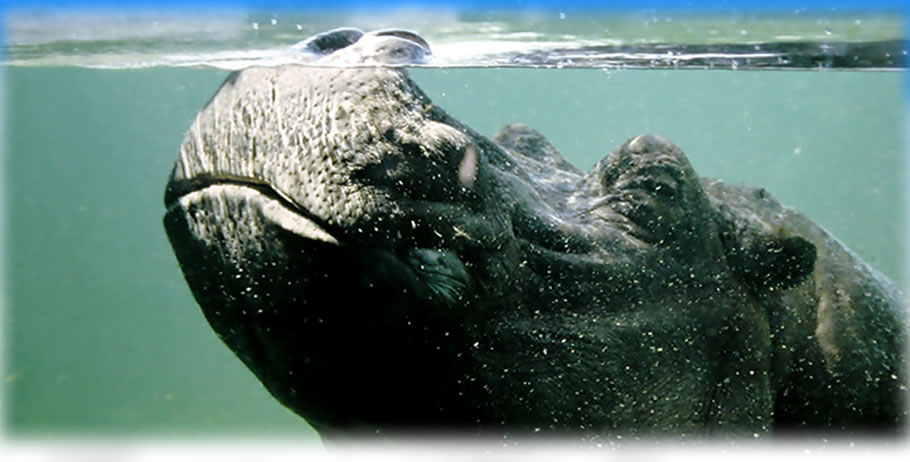
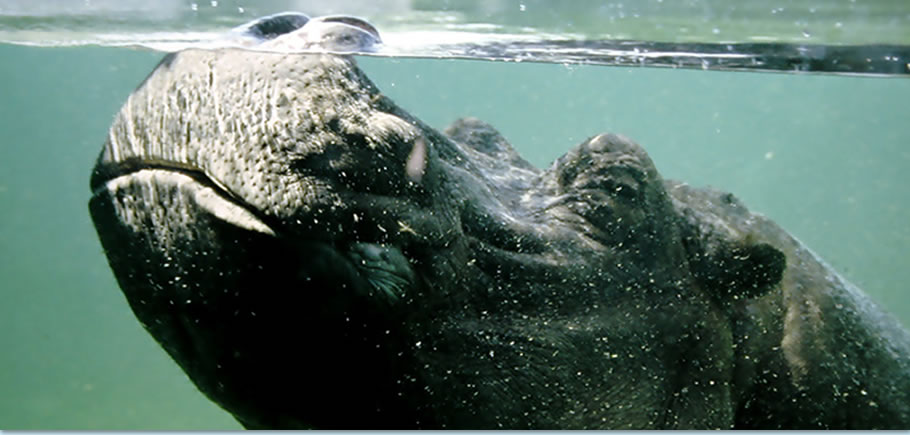
・背景の変更によりトップ画像とロゴ画像を変更。 ・各記事の画像サイズを統一。

diff --git a/index.html b/index.html
@@ -20,27 +20,27 @@
       </ul>
     </div>
     <div id="main_header">
-      <div id="title_logo"><a href="index.html"><img src="image/title_logo.jpg" width="424" height="83" alt="大阪市立天王寺動物園"></a></div>
-      <div id="pr"><a href="http://blog.zaq.ne.jp/zoo_tennoji5/category/10/" target="_new"><img src="image/koguma_pr.jpg" width="210" height="61" alt="ホッキョクグマの赤ちゃん公開中！"></a></div>
+      <div id="title_logo"><a href="index.html"><img src="image/title_logo.png" width="418" height="79" alt="大阪市立天王寺動物園"></a></div>
+      <div id="pr"><a href="http://blog.zaq.ne.jp/zoo_tennoji5/category/10/" target="_new"><img src="image/koguma_pr.jpg" width="210" height="62" alt="ホッキョクグマの赤ちゃん公開中！"></a></div>
     </div>
     <div id="navi">
       <ul>
-        <li><img src="image/navi_info.jpg" alt="総合案内" width="111" height="30"></li>
-        <li><img src="image/navi_access.jpg" alt="アクセス" width="117" height="30"></li>
-        <li><img src="image/navi_event.jpg" width="112" height="30" alt="イベント"></li>
-        <li><img src="image/navi_map.jpg" alt="園内マップ" width="128" height="30"></li>
-        <li><img src="image/navi_ref.jpg" alt="いきもの" width="109" height="30"></li>
-        <li><img src="image/navi_read.jpg" alt="よみもの" width="105" height="30"></li>
+        <li><img src="image/navi_info.png" alt="総合案内" width="100" height="20"></li>
+        <li><img src="image/navi_access.png" alt="アクセス" width="100" height="20"></li>
+        <li><img src="image/navi_event.png" width="98" height="20" alt="イベント"></li>
+        <li><img src="image/navi_map.png" alt="園内マップ" width="121" height="20"></li>
+        <li><img src="image/navi_ref.png" alt="いきもの" width="102" height="20"></li>
+        <li><img src="image/navi_read.png" alt="よみもの" width="101" height="20"></li>
       </ul>
     </div>
 </div>
 <div class="clear_left" id="main_image">
 	<ul>
-	 <li><img src="image/main_img1.jpg" width="910" height="462" alt="アムールトラ">
+	 <li><img src="image/main_img1.jpg" width="910" height="435" alt="アムールトラ">
    </li>
-	 <li><img src="image/main_img2.jpg" width="910" height="462" alt="ホッキョクグマ"></li>
-	 <li><img src="image/main_img3.jpg" width="910" height="462" alt="チュウゴクオオカミ"></li>
-	 <li><img src="image/main_img4.jpg" alt="カバ" width="940" height="462" class="clear_left"></li>
+	 <li><img src="image/main_img2.jpg" width="910" height="435" alt="ホッキョクグマ"></li>
+	 <li><img src="image/main_img3.jpg" width="910" height="435" alt="チュウゴクオオカミ"></li>
+	 <li><img src="image/main_img4.jpg" alt="カバ" width="940" height="435" class="clear_left"></li>
   </ul>
  </div>
 <div id="contents">
@@ -49,7 +49,7 @@
   <h2><span class="display_none">ニュース・お知らせ</span></h2>
 		<a href="http://www.jazga.or.jp/tennoji/info/info150331.html" target="_new">
           <div class="news_article" id="ceremony">
-            <p><img src="image/polar_bear.jpg" width="290" height="211" class="article_pic"></p>
+            <p><img src="image/polar_bear.jpg" width="290" height="210" class="article_pic"></p>
             <p class="news_update">2015.3.30更新</p>
             <h3 class="article_contents article_header">ホッキョクグマ「イッちゃん」の寄贈に関する感謝状の贈呈式が行われました。</h3>
             <p class="news_article_contents article_contents">株式会社蓬莱代表取締役社長、常務及び大阪市長出席のもと、大阪市役所市長応接室にて感謝状贈呈式を行いました。</p>
@@ -57,7 +57,7 @@
           </a>
         <a href="http://www.jazga.or.jp/tennoji/access/index.html">
           <div class="news_article" id="change_root">
-            <p><img src="image/logo.gif" alt="天王寺動物園ロゴ" width="132" height="132" class="article_pic"></p>
+            <p><img src="image/logo.gif" alt="天王寺動物園ロゴ" width="290" height="210" class="article_pic"></p>
             <p class="news_update">2015.1.30更新</p>
             <h3 class="article_contents article_header">2月24日より<br>
             アクセスルートが変わりました。</h3>
@@ -67,7 +67,7 @@
 		</a>
         <a href="http://www.city.osaka.lg.jp/kensetsu/page/0000296961.html">
           <div id="under_construction">
-            <p><img src="image/logo.gif" alt="天王寺動物園ロゴ" width="132" height="132" class="article_pic"></p>
+            <p><img src="image/logo.gif" alt="天王寺動物園ロゴ" width="290" height="210" class="article_pic"></p>
             <p class="news_update">2015.1.30更新</p>
             <h3 class="article_contents article_header">新世界ゲート横のトイレが改修工事のため<br>
             使用できなくなります</h3>
@@ -83,7 +83,7 @@
   <h2><span class="display_none">イベント</span></h2>
 	<a href="http://www.city.osaka.lg.jp/mobile/main/page/0000294561.html">
       <div class="event_contents" id="display">
-        <p><img src="image/animal_display.jpg" alt="絶滅の危機にある動物たち・ 外来生物の脅威" width="291" height="218" class="article_pic"></p>
+        <p><img src="image/animal_display.jpg" alt="絶滅の危機にある動物たち・ 外来生物の脅威" width="290" height="210" class="article_pic"></p>
         <p class="event_update">2015.3.21～2015.4.5まで</p>
         <h3 class="article_contents article_header">絶滅の危機にある動物たち・ 外来生物の脅威</h3>
         <p class="article_contents event_article_contents">今年は天王寺動物園開園100周年にあたるため、天王寺動物園で飼育していたが絶滅してしまった動物、絶滅の危機にある動物について特集します。</p>
@@ -91,7 +91,7 @@
 	</a>
       <a href="http://www.city.osaka.lg.jp/kensetsu/page/0000304405.html" target="_new">
       <div id="art">
-        <p><img src="image/art.gif" alt="下村優介_切り絵展" width="183" height="220" class="article_pic"></p>
+        <p><img src="image/art.gif" alt="下村優介_切り絵展" width="290" height="210" class="article_pic"></p>
         <p class="event_update">2015.3.26～2015.4.1まで</p>
         <h3 class="article_contents article_header">下村優介 切り絵展</h3>
         <p class="article_contents event_article_contents	">「株式会社近鉄百貨店」と「通天閣観光株式会社」とのコラボレーション企画として、あべのハルカスと通天閣、天王寺動物園の3か所で同時に開催いたします。</p>
@@ -102,7 +102,7 @@
       <div id="blog">
         <h2><span class="display_none">スタッフブログ</span></h2>
         <div id="blog_article">
-          <p><img src="image/koara.jpg" alt="コアラ" width="284" height="161" class="article_pic"></p>
+          <p><img src="image/blog.jpg" alt="ケープハイラックスの赤ちゃん" width="290" height="210" class="article_pic"></p>
           <p class="blog_update">2015.4.7</p>
           <h3 class="article_header article_contents">ユーカリの中でいい夢見れたかな？</h3>
           <p class="article_contents">さて地面で暮らしている国内最高齢のミクです...</p>
@@ -126,7 +126,7 @@
             <li><img src="image/display_space.gif" alt="展示室" width="210" height="30" class="map_info_border"></li>
           </ul>
       </div>
-        <div id="animal_ref"><img src="image/animal_ref.jpg" width="209" height="180" alt="動物図鑑"></div>
+        <div id="animal_ref"><img src="image/animal_ref.jpg" width="210" height="180" alt="動物図鑑"></div>
         <div id="service_info">
           <h2><span class="display_none">営業案内</span></h2>
           <ul>
@@ -144,8 +144,8 @@
     </div><!--menu-->
 </div>
 <div id="external_links">
-  <p><a href="http://www.naniwa-ecostyle.net/" target="_new"><img src="image/ecostyle.jpg" width="210" height="55" alt="なにわエコスタイル"></a></p>
-  <p><a href="http://www.abenoharukas-300.jp/" target="_new"><img src="image/harukas.jpg" width="206" height="55" alt="あべのハルカス"></a></p>
+  <p><a href="http://www.naniwa-ecostyle.net/" target="_new"><img src="image/ecostyle.jpg" width="210" height="54" alt="なにわエコスタイル"></a></p>
+  <p><a href="http://www.abenoharukas-300.jp/" target="_new"><img src="image/harukas.jpg" width="210" height="54" alt="あべのハルカス"></a></p>
 </div>
 <div id="footer">
   <div id="text_link">
